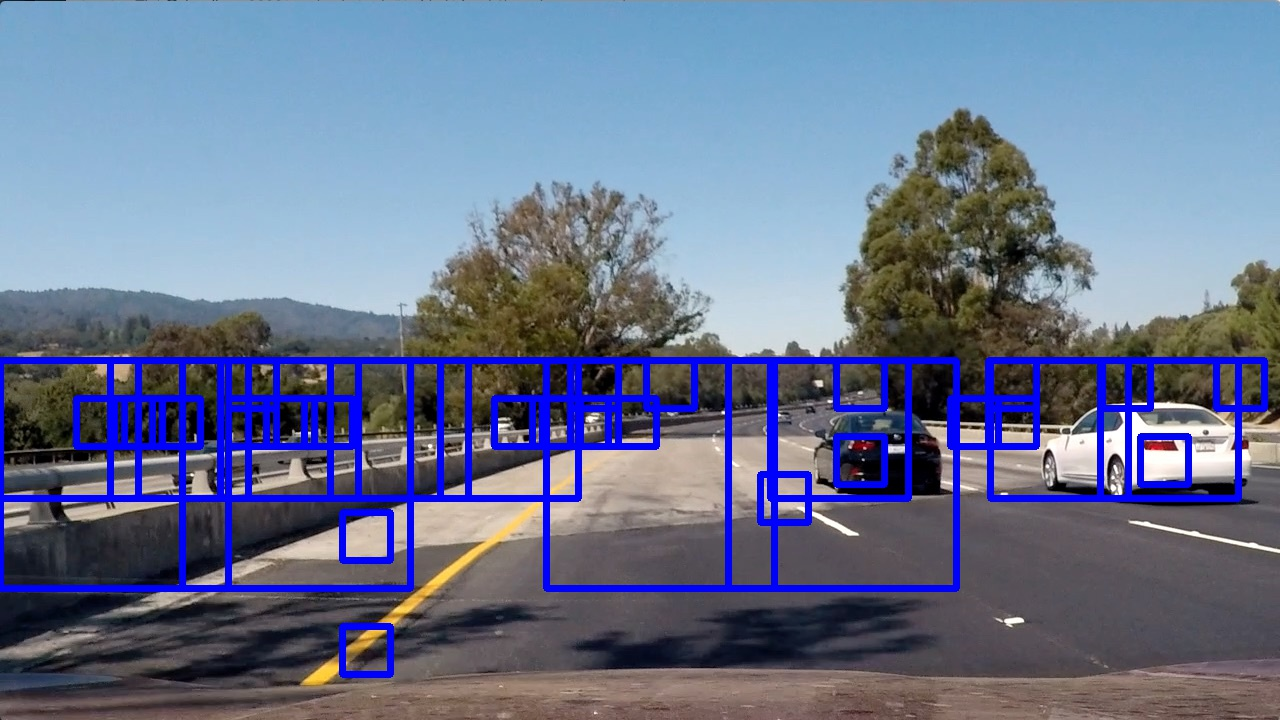
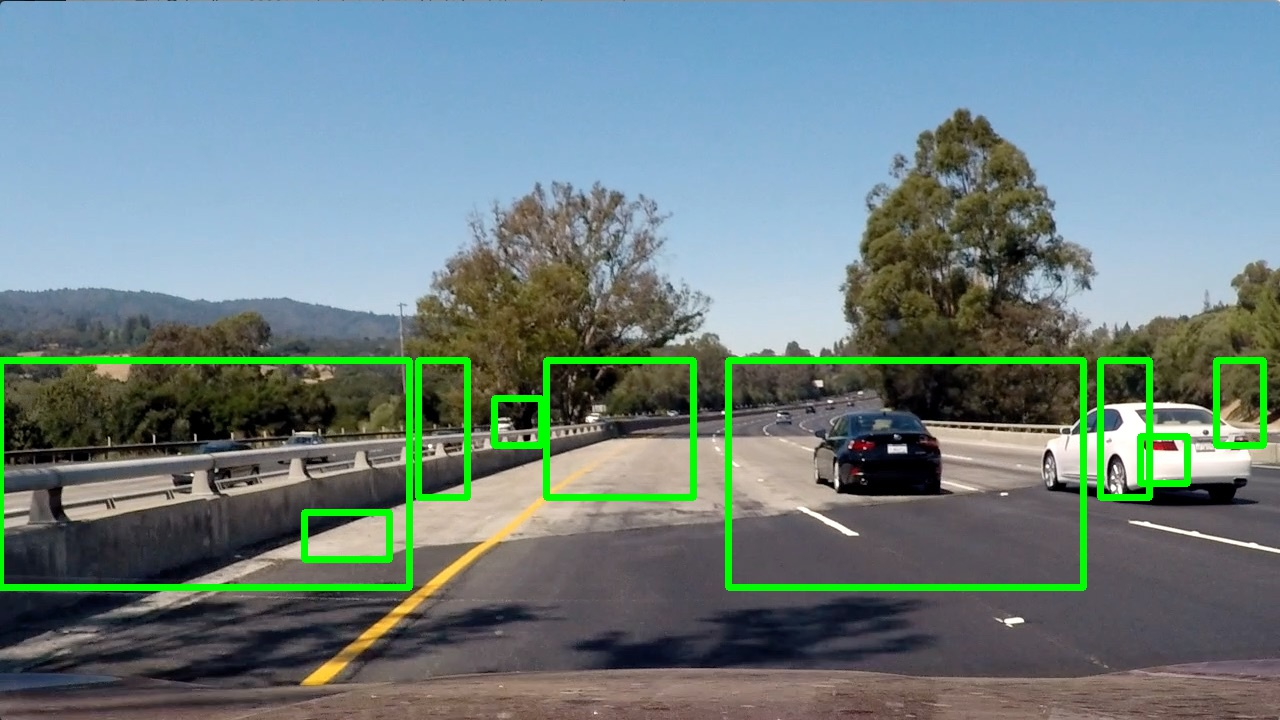
Add basic heatmap-based final vehicle detection

Changed region(s): [[0.0, 0.4889, 1.0, 0.825], [0.25, 0.8556, 0.3125, 0.9472]]

diff --git a/detect_vehicles.py b/detect_vehicles.py
@@ -10,6 +10,7 @@ import cv2
 import numpy as np
 from moviepy.editor import VideoFileClip
 import matplotlib.pyplot as plt
+from scipy.ndimage.measurements import label
 from skimage.feature import hog
 from sklearn.cross_validation import train_test_split
 from sklearn.svm import LinearSVC
@@ -219,6 +220,39 @@ def draw_boxes(img, bboxes, color=(0, 0, 255), thick=6):
     # Return the image copy with boxes drawn
     return imcopy
 
+def add_heat(heatmap, bbox_list):
+    # Iterate through list of bboxes
+    for box in bbox_list:
+        # Add += 1 for all pixels inside each bbox
+        # Assuming each "box" takes the form ((x1, y1), (x2, y2))
+        heatmap[box[0][1]:box[1][1], box[0][0]:box[1][0]] += 1
+
+    # Return updated heatmap
+    return heatmap# Iterate through list of bboxes
+    
+def apply_threshold(heatmap, threshold):
+    # Zero out pixels below the threshold
+    heatmap[heatmap <= threshold] = 0
+    # Return thresholded map
+    return heatmap
+
+def draw_labeled_bboxes(img, labels):
+    # Make a copy of the image
+    imcopy = np.copy(img)
+    # Iterate through all detected cars
+    for car_number in range(1, labels[1]+1):
+        # Find pixels with each car_number label value
+        nonzero = (labels[0] == car_number).nonzero()
+        # Identify x and y values of those pixels
+        nonzeroy = np.array(nonzero[0])
+        nonzerox = np.array(nonzero[1])
+        # Define a bounding box based on min/max x and y
+        bbox = ((np.min(nonzerox), np.min(nonzeroy)), (np.max(nonzerox), np.max(nonzeroy)))
+        # Draw the box on the image
+        cv2.rectangle(imcopy, bbox[0], bbox[1], (0,255,0), 6)
+    # Return the image
+    return imcopy
+
 ### TODO: Tweak these parameters and see how the results change.
 color_space = 'HLS' # Can be RGB, HSV, LUV, HLS, YUV, YCrCb
 orient = 9  # HOG orientations
@@ -295,14 +329,40 @@ def process_image(image):
 
     windows = slide_window(image)
 
-    hot_windows = search_windows(image, windows, classifier, X_scaler, color_space=color_space, 
+    flagged_windows = search_windows(image, windows, classifier, X_scaler, color_space=color_space, 
                             spatial_size=spatial_size, hist_bins=hist_bins, 
                             orient=orient, pix_per_cell=pix_per_cell, 
                             cell_per_block=cell_per_block, 
                             hog_channel=hog_channel, spatial_feat=spatial_feat, 
-                            hist_feat=hist_feat, hog_feat=hog_feat)                       
+                            hist_feat=hist_feat, hog_feat=hog_feat) 
+                      
+    image_with_flagged_windows = draw_boxes(image, flagged_windows, color=(0, 0, 255), thick=6)
     
-    final = draw_boxes(image, hot_windows, color=(0, 0, 255), thick=6)
+    if debug_image == True:
+        plt.figure(figsize=(20, 10))
+        plt.imshow(image_with_flagged_windows)
+        plt.show()
+    
+    heat = np.zeros_like(image[:,:,0]).astype(np.float)    
+    
+    # Add heat to each box in box list
+    heat = add_heat(heat, flagged_windows)
+        
+    # Apply threshold to help remove false positives
+    heat = apply_threshold(heat,1)
+    
+    # Visualize the heatmap when displaying    
+    heatmap = np.clip(heat, 0, 255)
+    
+    if debug_image == True:
+        plt.figure(figsize=(20, 10))
+        plt.imshow(heatmap, cmap='hot')
+        plt.show()
+    
+    # Find final boxes from heatmap using label function
+    labels = label(heatmap)
+
+    final = draw_labeled_bboxes(image, labels)
 
     if debug_image == True:
         plt.figure(figsize=(20, 10))
